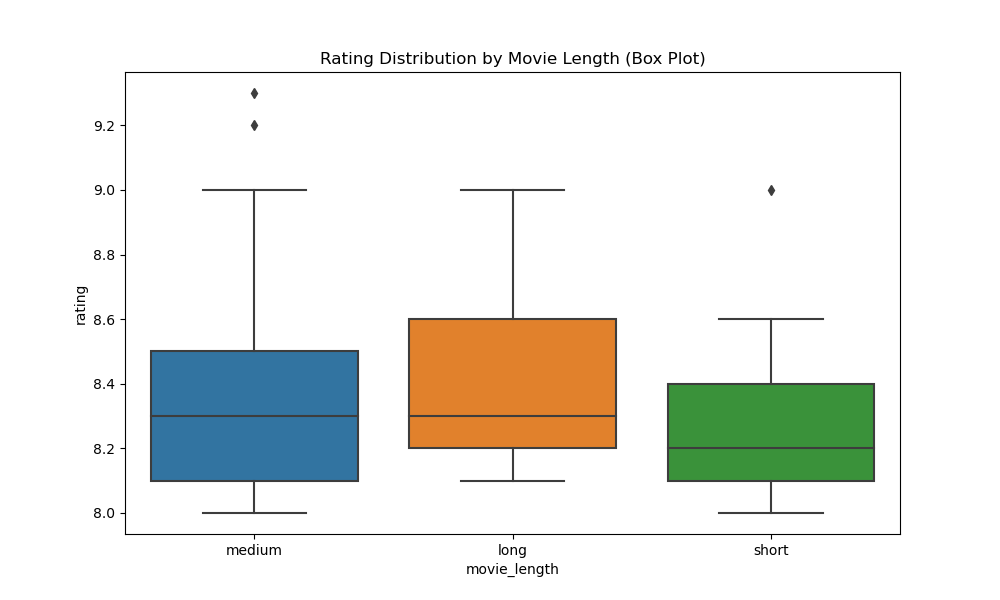
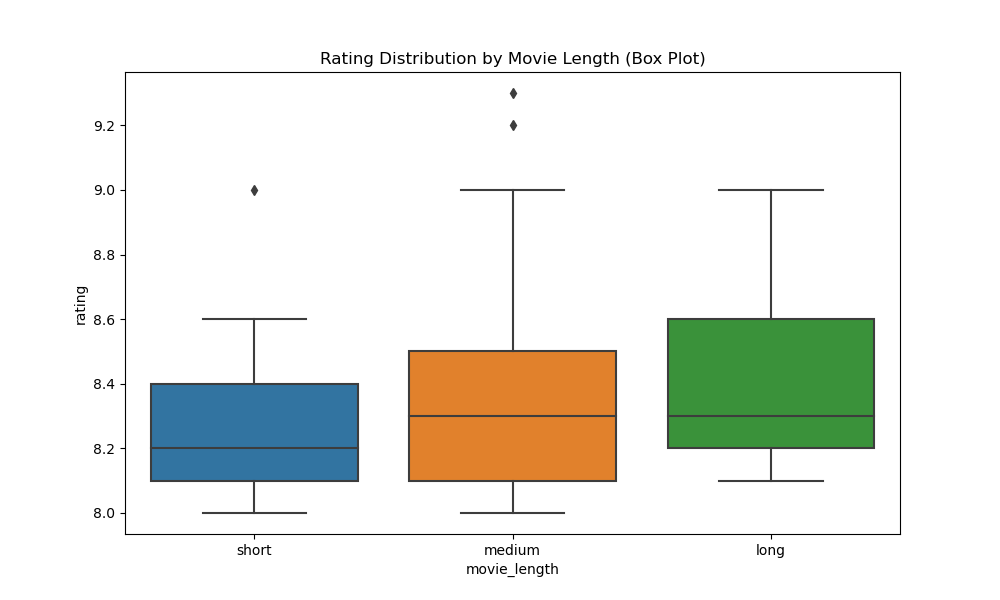
new rating and length graphs with order

diff --git a/code/rating_length_ver2.py b/code/rating_length_ver2.py
@@ -1,0 +1,85 @@
+
+import pandas as pd
+import re
+import matplotlib.pyplot as plt
+import seaborn as sns
+
+def parse_duration(duration):
+    match = re.match(r'(\d+)h(\d+)m', duration)  
+    if match:
+        hours = int(match.group(1))
+        minutes = int(match.group(2))
+        return hours * 60 + minutes
+    match = re.match(r'(\d+)h', duration)
+    if match:
+        hours = int(match.group(1))
+        return hours * 60
+    match = re.match(r'(\d+)m', duration)
+    if match:
+        minutes = int(match.group(1))
+        return minutes
+    return 0 
+
+# Function to categorize movie length
+def categorize_length(total_minutes):
+    if total_minutes <= 90:
+        return 'short'
+    elif 90 < total_minutes <= 150:
+        return 'medium'
+    else:
+        return 'long'
+
+# Step 1: Load the CSV file
+df = pd.read_csv('artifacts/movies.csv')
+
+# Step 2: Parse the duration column and categorize movie length
+df['total_minutes'] = df['duration'].apply(parse_duration)
+df['movie_length'] = df['total_minutes'].apply(categorize_length)
+
+# Debugging: Check the unique values in movie_length
+print(df['movie_length'].unique())
+
+# Ensure there are no leading/trailing spaces or case issues
+df['movie_length'] = df['movie_length'].str.strip().str.lower()
+
+# Step 3: Group by movie length and analyze ratings
+grouped = df.groupby('movie_length')['rating']
+
+# Calculate summary statistics for each group
+summary_stats = grouped.describe()
+
+# Step 4: Save the summary statistics as a CSV file in the artifacts folder
+summary_stats.to_csv('artifacts/movie_length_rating_summary.csv')
+
+print("Rating summary saved to artifacts/movie_length_rating_summary.csv.")
+
+# Box plot
+plt.figure(figsize=(10, 6))
+sns.boxplot(x='movie_length', y='rating', data=df, order=['short', 'medium', 'long'])
+plt.title('Rating Distribution by Movie Length (Box Plot)')
+plt.savefig('artifacts/rating_distribution_by_length_boxplot.png')
+plt.show()
+
+# Histograms
+plt.figure(figsize=(12, 6))
+sns.histplot(df[df['movie_length'] == 'short']['rating'], bins=10, kde=True, color='blue', label='Short', stat='density', element='step')
+sns.histplot(df[df['movie_length'] == 'medium']['rating'], bins=10, kde=True, color='green', label='Medium', stat='density', element='step')
+sns.histplot(df[df['movie_length'] == 'long']['rating'], bins=10, kde=True, color='red', label='Long', stat='density', element='step')
+plt.title('Rating Distribution by Movie Length (Histograms)')
+plt.xlabel('Rating')
+plt.ylabel('Density')
+plt.legend()
+plt.savefig('artifacts/rating_distribution_by_length_histogram.png')
+plt.show()
+
+# KDE Plot
+plt.figure(figsize=(12, 6))
+sns.kdeplot(df[df['movie_length'] == 'short']['rating'], color='blue', label='Short', fill=True)
+sns.kdeplot(df[df['movie_length'] == 'medium']['rating'], color='green', label='Medium', fill=True)
+sns.kdeplot(df[df['movie_length'] == 'long']['rating'], color='red', label='Long', fill=True)
+plt.title('Rating Distribution by Movie Length (KDE Plot)')
+plt.xlabel('Rating')
+plt.ylabel('Density')
+plt.legend()
+plt.savefig('artifacts/rating_distribution_by_length_kde.png')
+plt.show()
